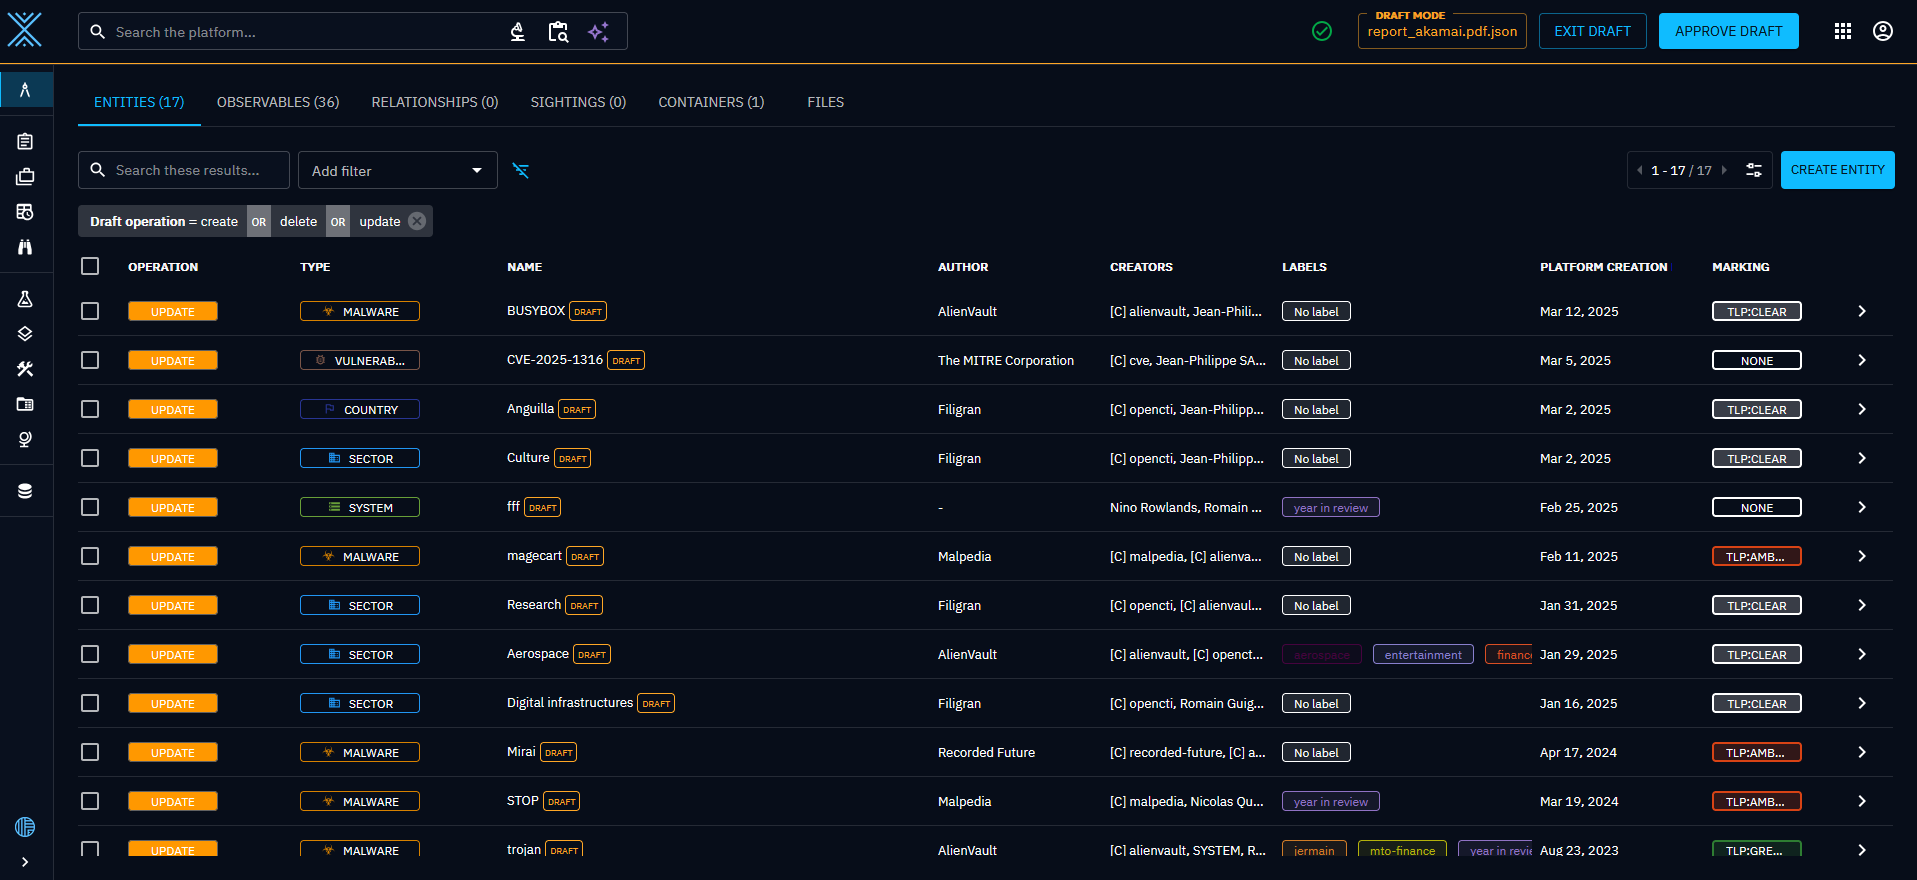
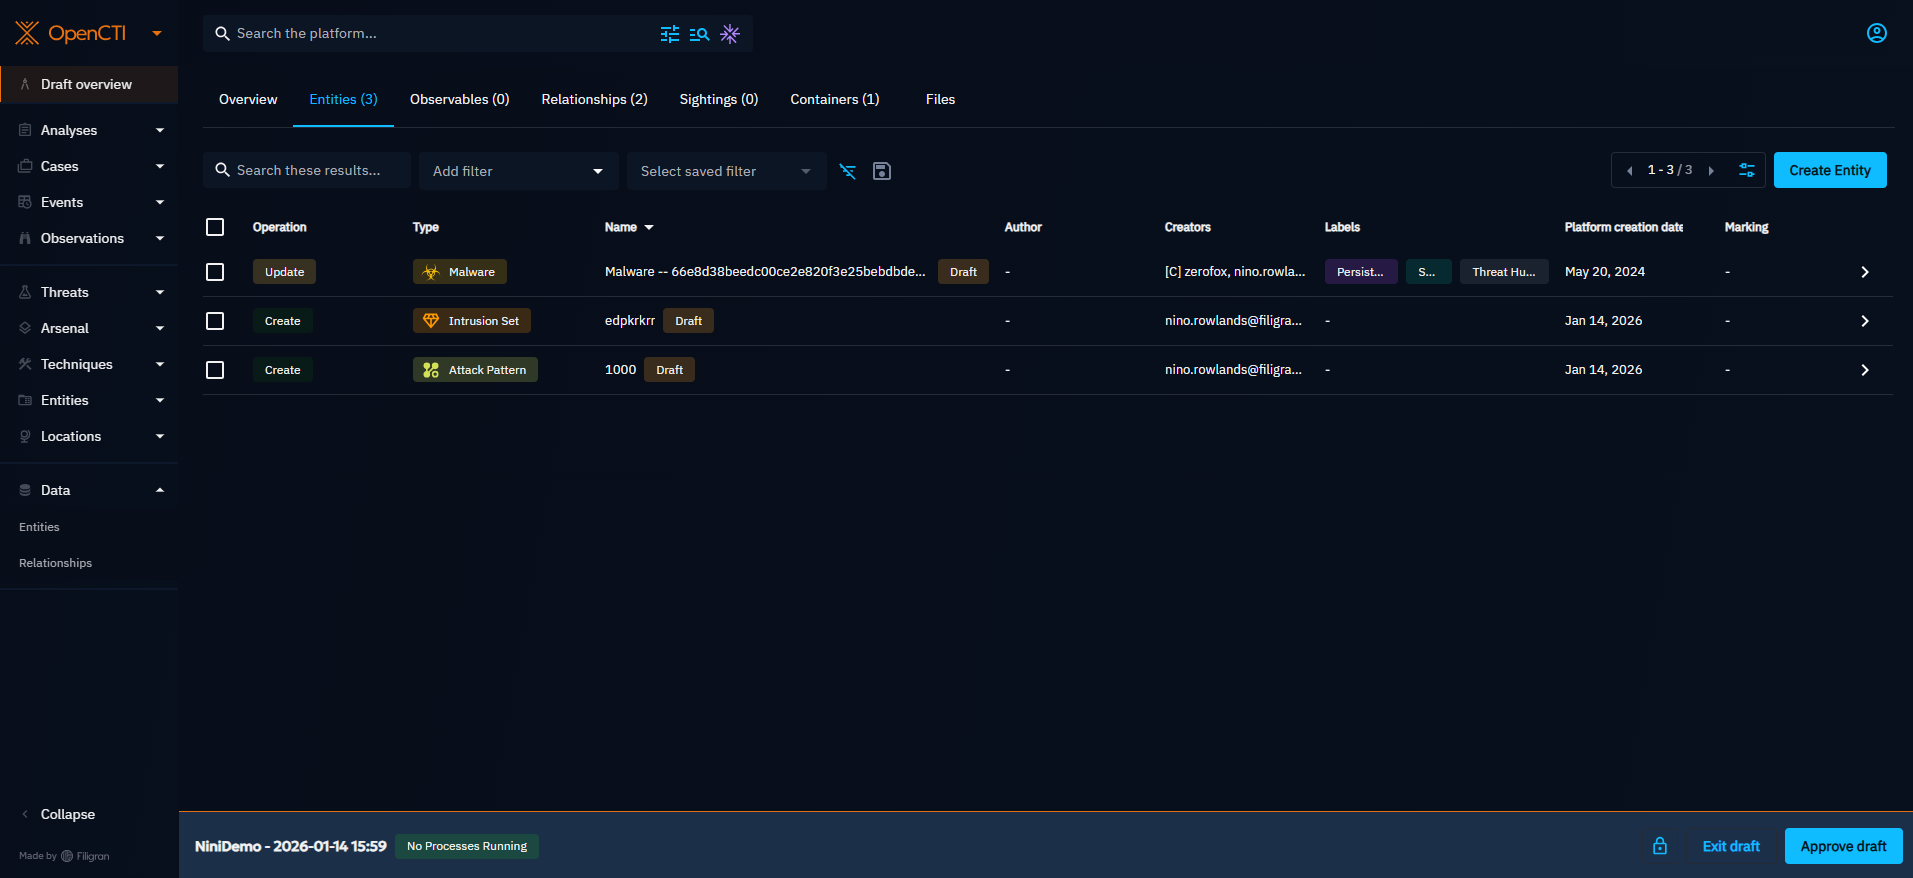
[docs] add metadata + overview + update draft (#13732)

diff --git a/docs/docs/usage/draftWorkspaces.md b/docs/docs/usage/draftWorkspaces.md
@@ -11,9 +11,22 @@ The first way to create a draft is to manually create one, in the Drafts page. W
 
 ![Draft creation page](assets/draftWorkspace-manual-creation.png)
 
+When creating a draft manually, the following metadata can be filled in:
+
+- **Name** (required): the name of the draft workspace.
+- **Description**: a free-text description to explain the purpose of the draft.
+- **Assignees**: users responsible for working on this draft.
+- **Participants**: users who are involved in this draft but are not the primary owners.
+- **Author**: the identity (individual, organization, or system) that authored this draft.
+- **Authorized members**: users or groups who are granted access to this draft, along with their access rights. When
+  set, only the listed members will be able to see and interact with the draft.
+
 The second way drafts can be created is when files are imported in the platform. Depending on the platform and connector configuration, uploading a file can automatically generate an import of that file. This automatic import can generate a draft where the result of the file import is available. We have created a variable to let you choose your import (either workbench or draft): [Configuration](../deployment/configuration.md).
 
-In addition, files can be manually imported. When that is the case, an option is available to decide the validation mode to use. When the draft validation mode is selected, a draft will be automatically created and the result of the file import will be available in it.
+In addition, files can be manually imported. When that is the case, an option is available to decide the validation mode
+to use. When the draft validation mode is selected, a draft will be automatically created and the result of the file
+import will be available in it. The same metadata fields (name, description, assignees, participants, author, authorized
+members) can be filled in at this stage.
 
 !!! warning "Import data without update"
 
@@ -32,11 +45,41 @@ Otherwise, a draft can be accessed by clicking on it in the draft list.
 
 ## Draft overview
 
-When entering a draft, the landing page will be the overview of the modifications contained in the draft
+When entering a draft, the content is organized into several tabs: **Overview**, **Entities**, **Observables**, *
+*Relationships**, **Sightings**, **Containers**, and **Files**.
+
+### Overview tab
+
+The Overview tab is the landing page of the draft. It presents the draft metadata in two cards:
+
+- **Details**: displays the draft's name and description.
+- **Basic information**: displays the author, the list of assignees, and the list of participants. Assignees and
+  participants can be added directly from this card using the "+" button.
+
+#### Editing draft metadata
+
+Users with edit rights on the draft can update its metadata directly from the Overview tab. An edition panel is
+available on the right-hand side of the page, with the following editable fields:
+
+- **Name**
+- **Description**
+- **Author** (Created By)
+- **Assignees**
+- **Participants**
+
+Each field is saved individually as soon as it is modified, without requiring an explicit save action.
+
+### Content tabs
+
+The other tabs each contain the list of modifications applied to items of the corresponding type:
+
+- **Entities**: STIX domain objects modified in the draft.
+- **Observables**: STIX cyber observables modified in the draft.
+- **Relationships**: relationships modified in the draft.
+- **Sightings**: sightings modified in the draft.
+- **Containers**: containers (reports, groupings, etc.) modified in the draft.
 
 ![Draft overview](assets/draftWorkspace-draft-overview.png)
-
-This overview is separated into different tabs: entities, observables, relationships, sightings and containers. Each tab contains the list of the modifications applied to an item of this type.
 
 ### Operation types
 
@@ -60,9 +103,10 @@ In addition to these lists of entities modified, a file tab is also available.
 
 In this tab, additional files can be uploaded and imported within the draft workspace without impacting the main knowledge base. These files will only be visible in the current draft.
 
-### Top bar actions
+### Bottom bar actions
 
-When in a draft, the top bar is modified as a reminder that everything done in the platform will only impact the current draft.
+When in a draft, the bottom bar is modified as a reminder that everything done in the platform will only impact the
+current draft.
 
 ![Draft context banner](assets/draftWorkspace-context-banner.png)
 
